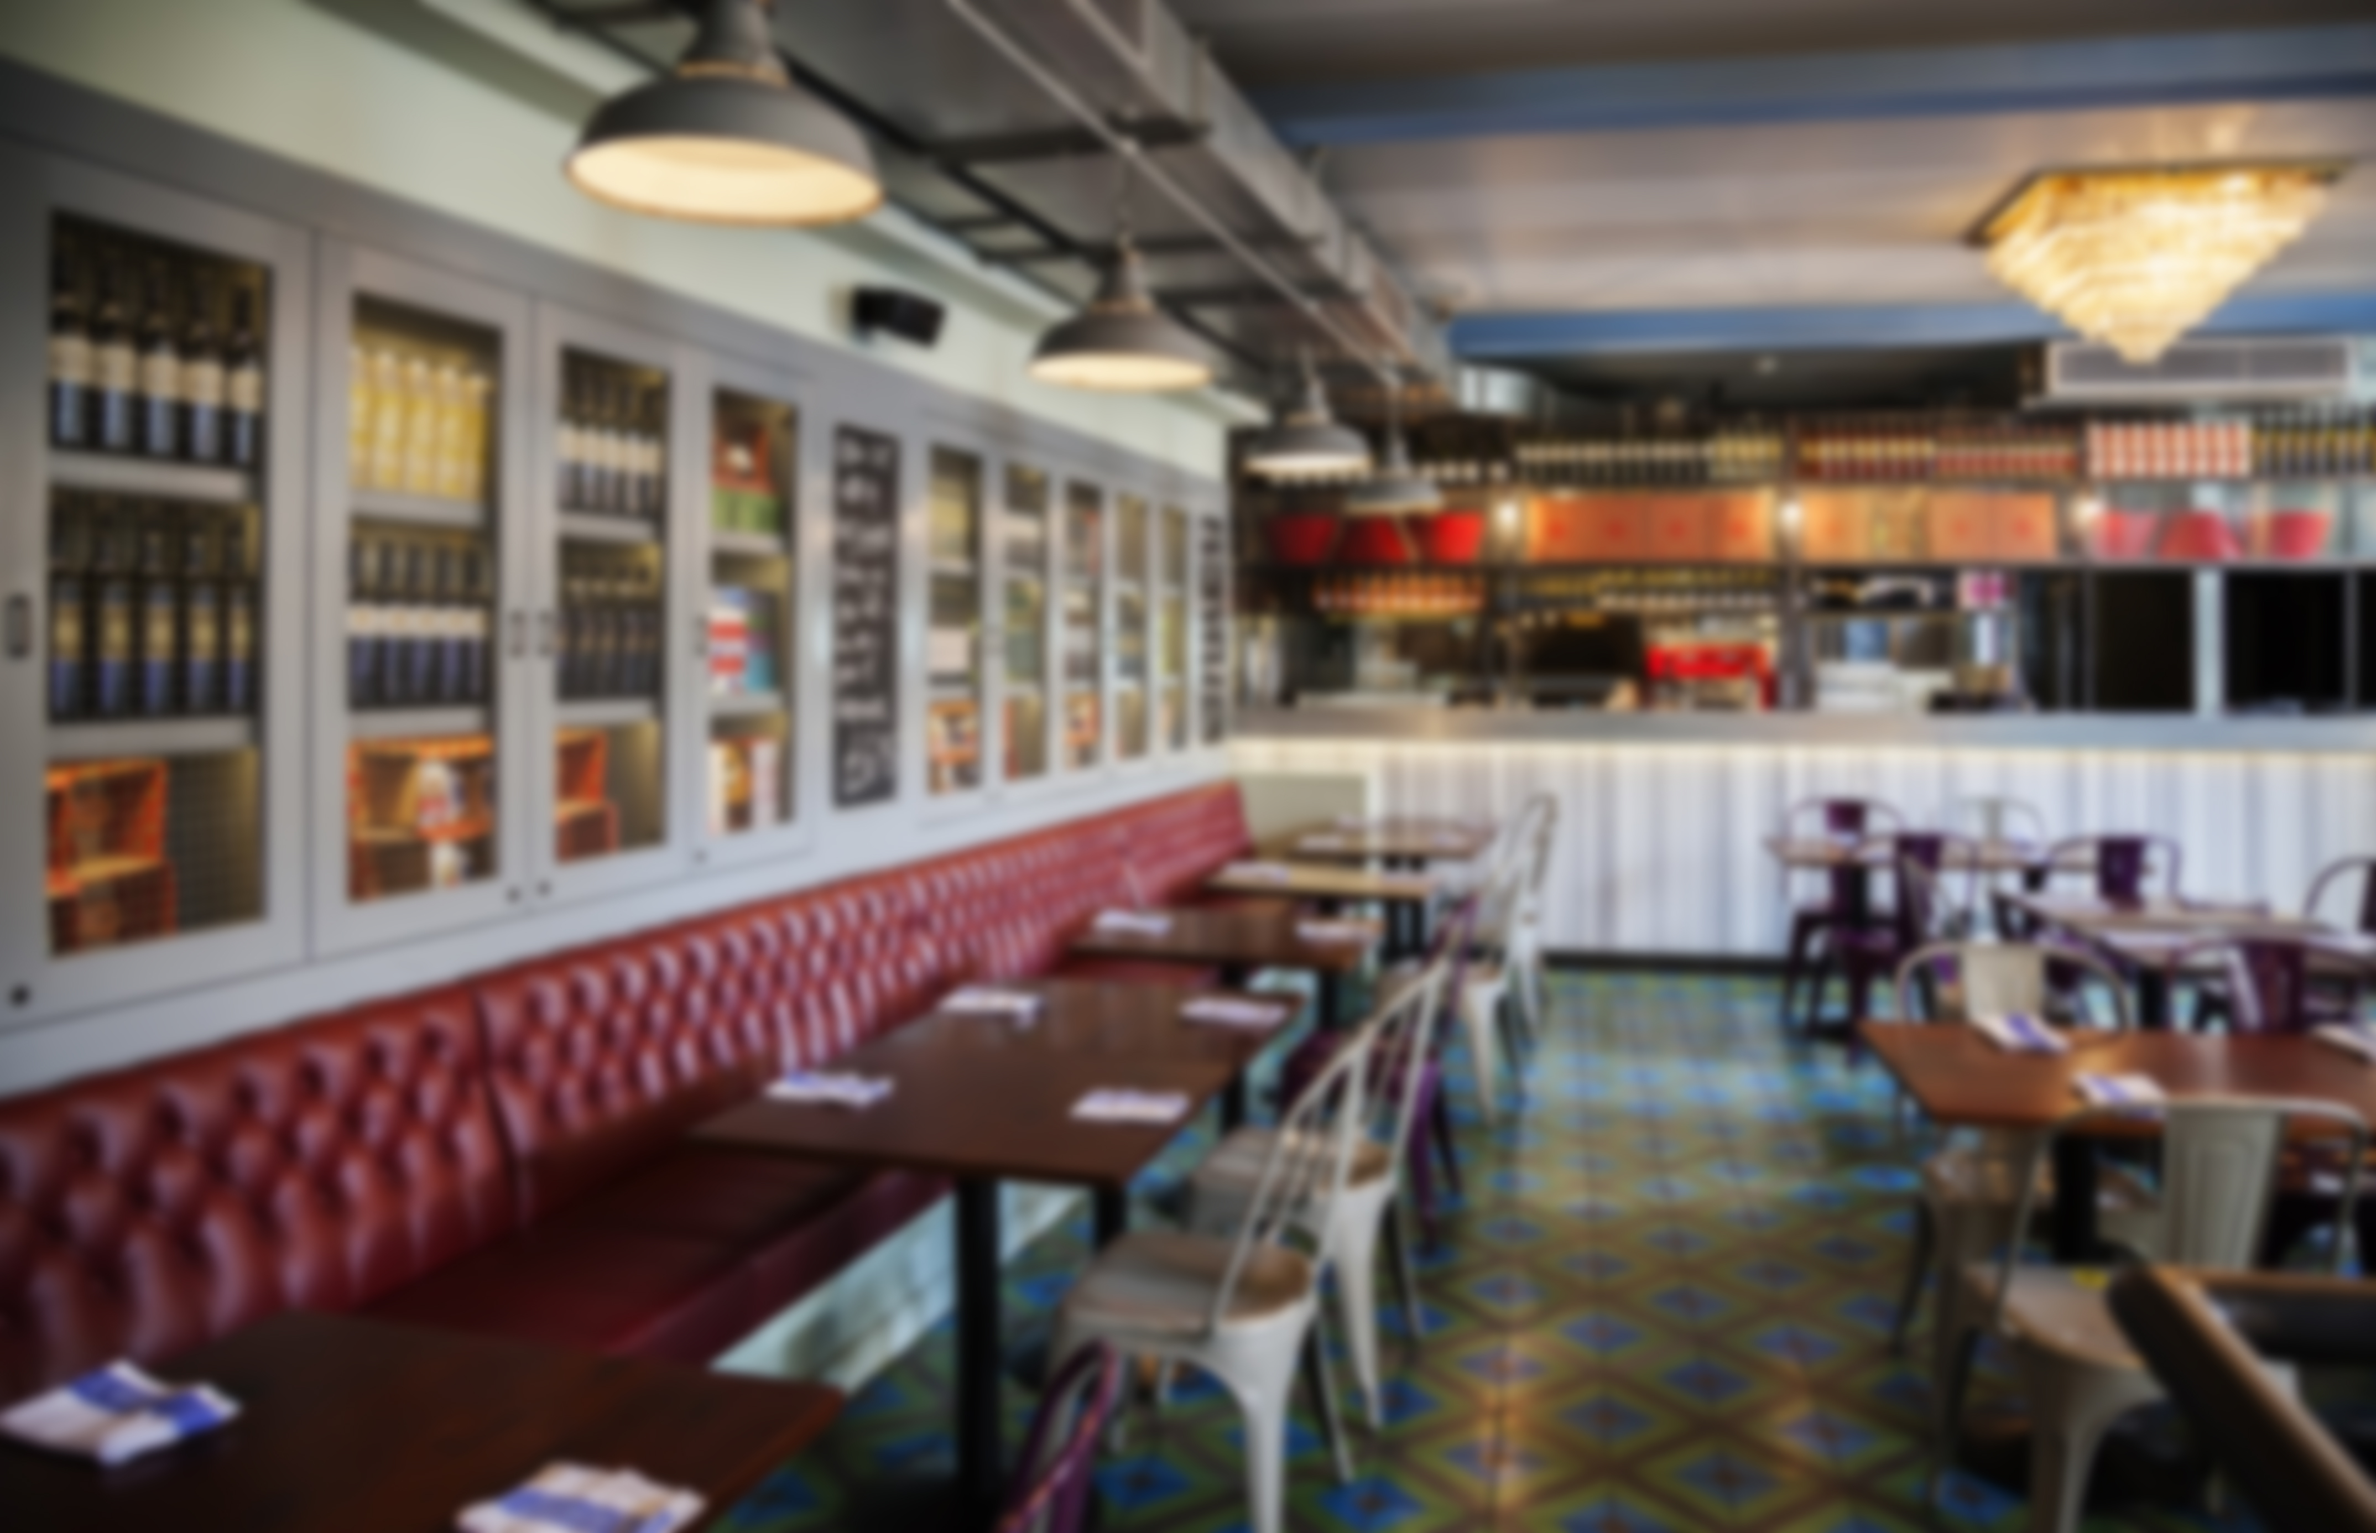
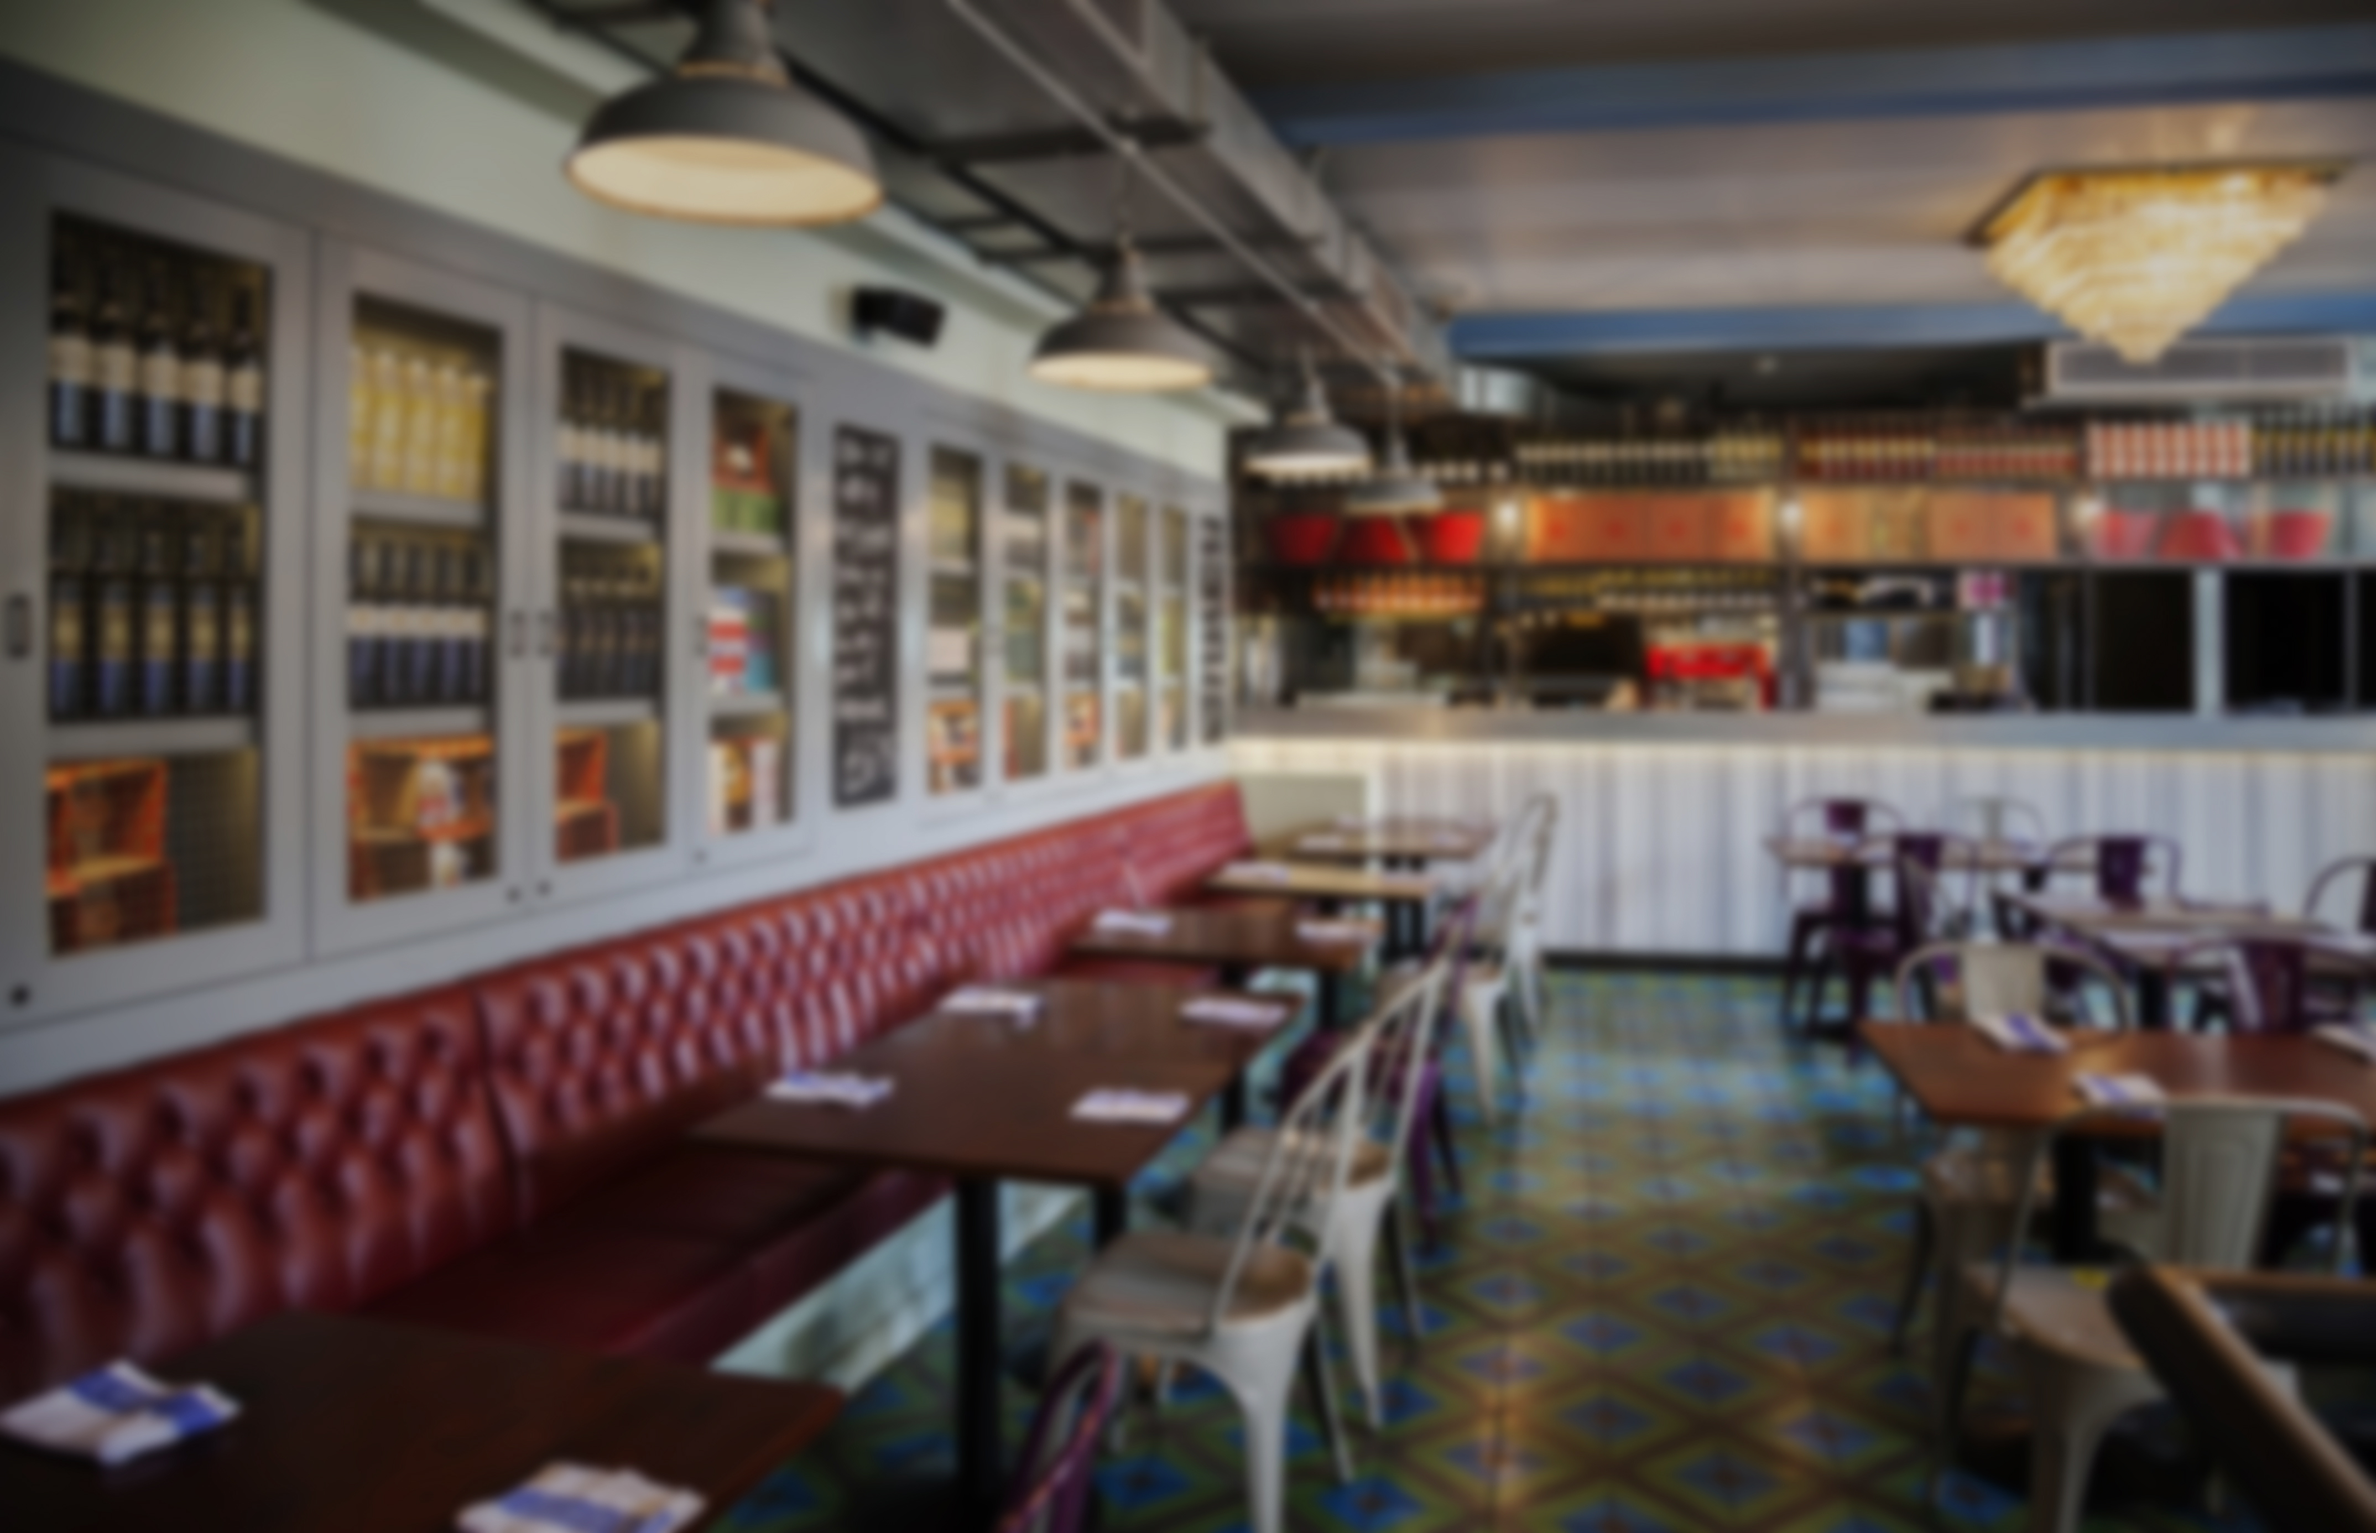
Unit 4 Update
Added vignette to background image.

diff --git a/Unit4/index.html b/Unit4/index.html
@@ -11,7 +11,7 @@
 
 	<body>
 		<section class="main_content">
-			<img src="images/contineo_logo.png" alt="Contineo Logo" width="90px" height="90px">
+			<img src="images/Contineo_Logo.png" alt="Contineo Logo" width="90px" height="90px">
 			<h1>CONTINEO</h1>
 			<p>The memorable experience that your friends and family keep talking about.</p>
 		</section>
